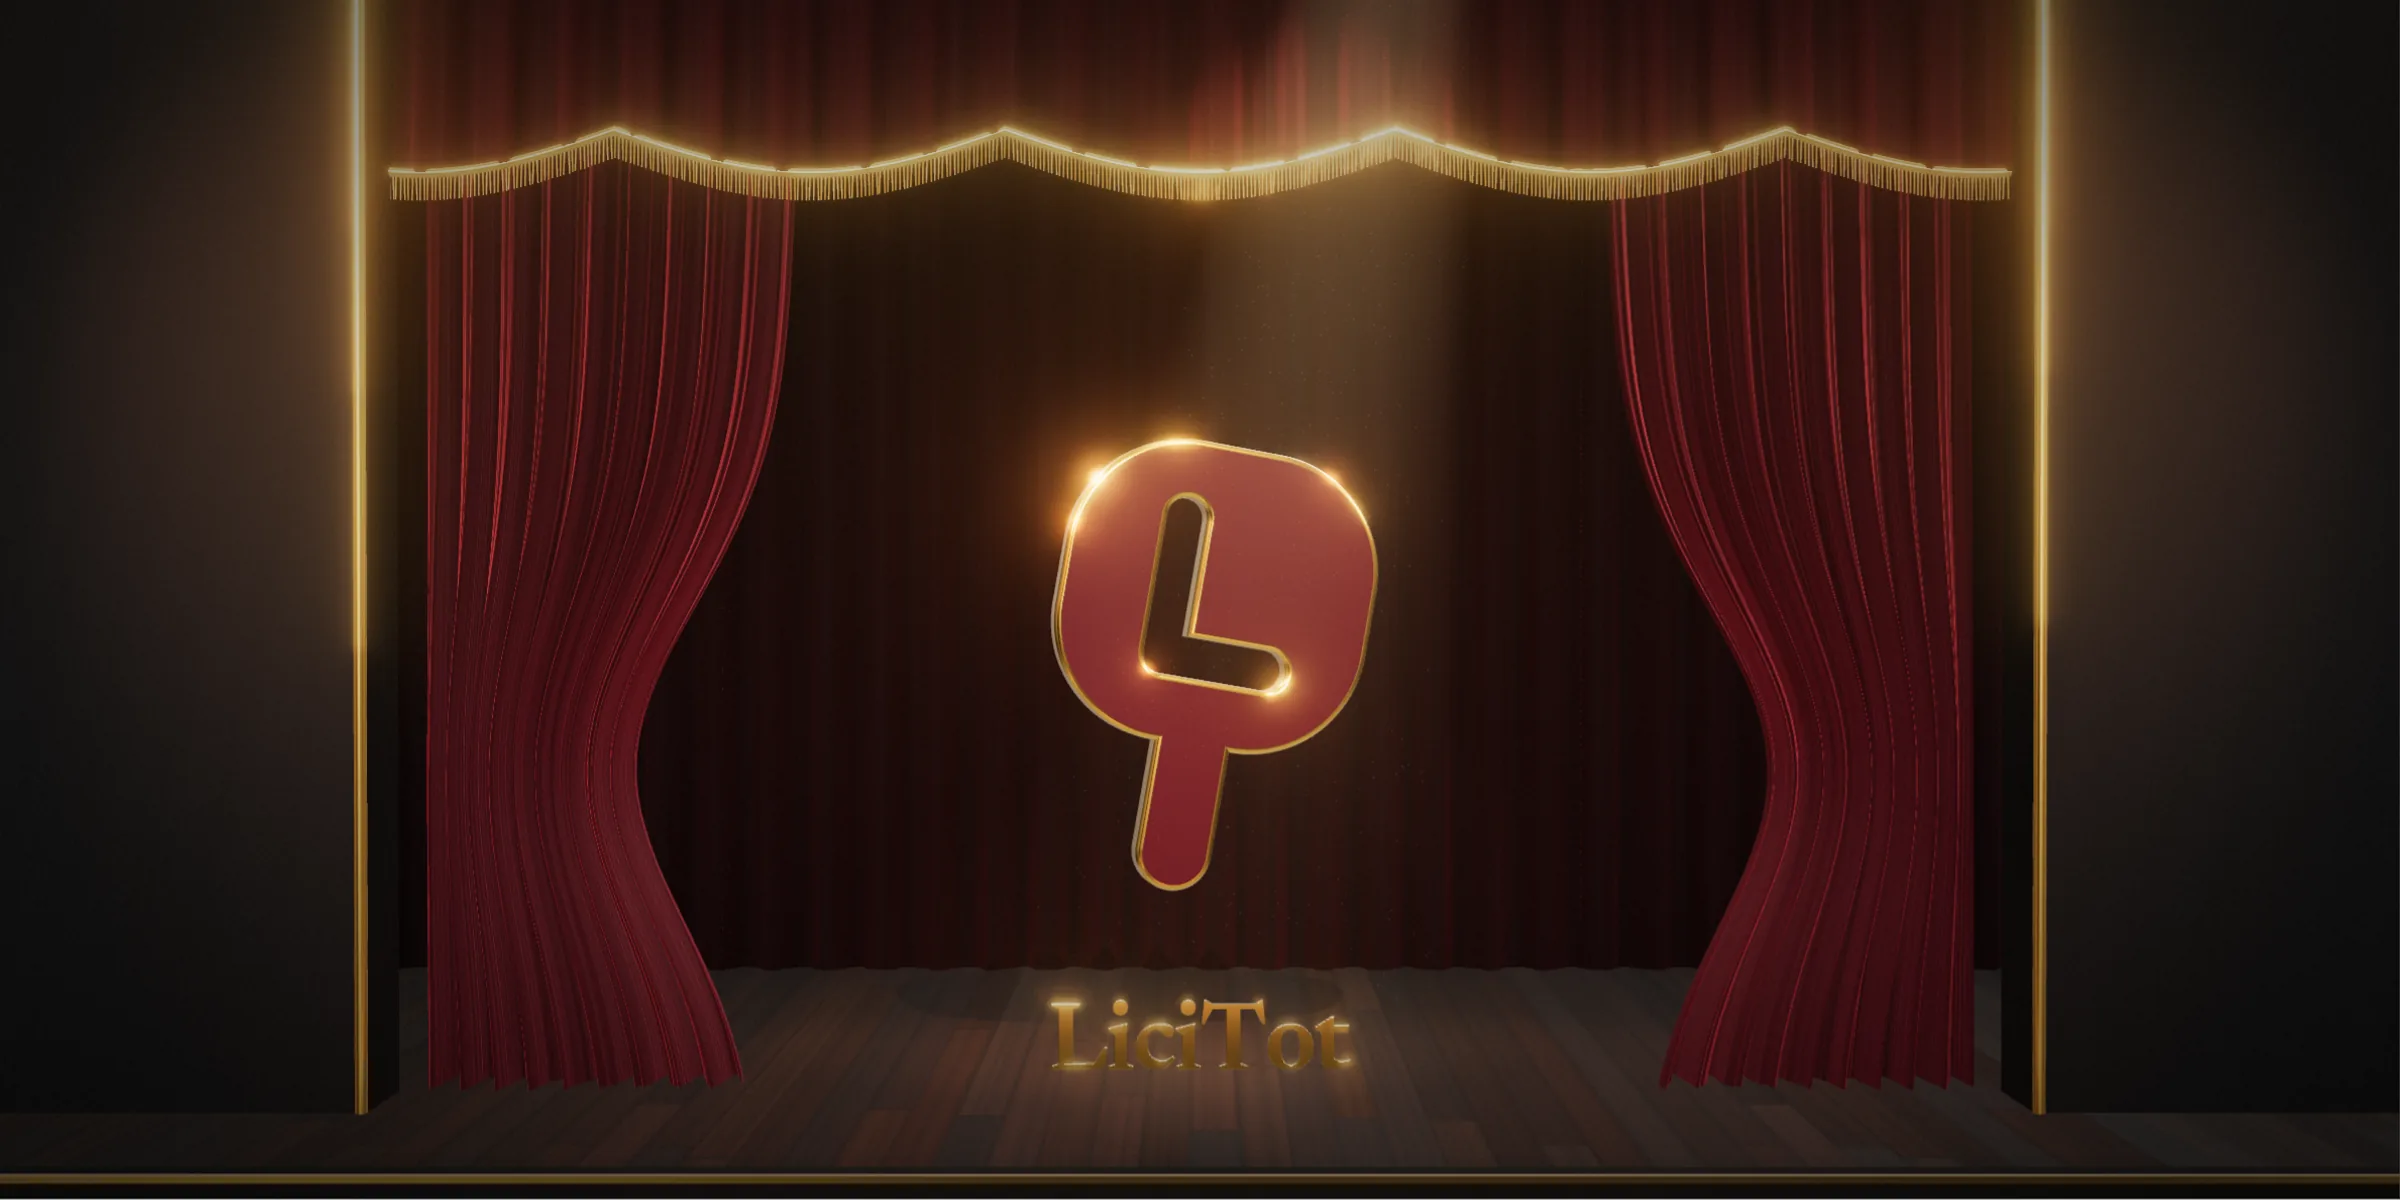
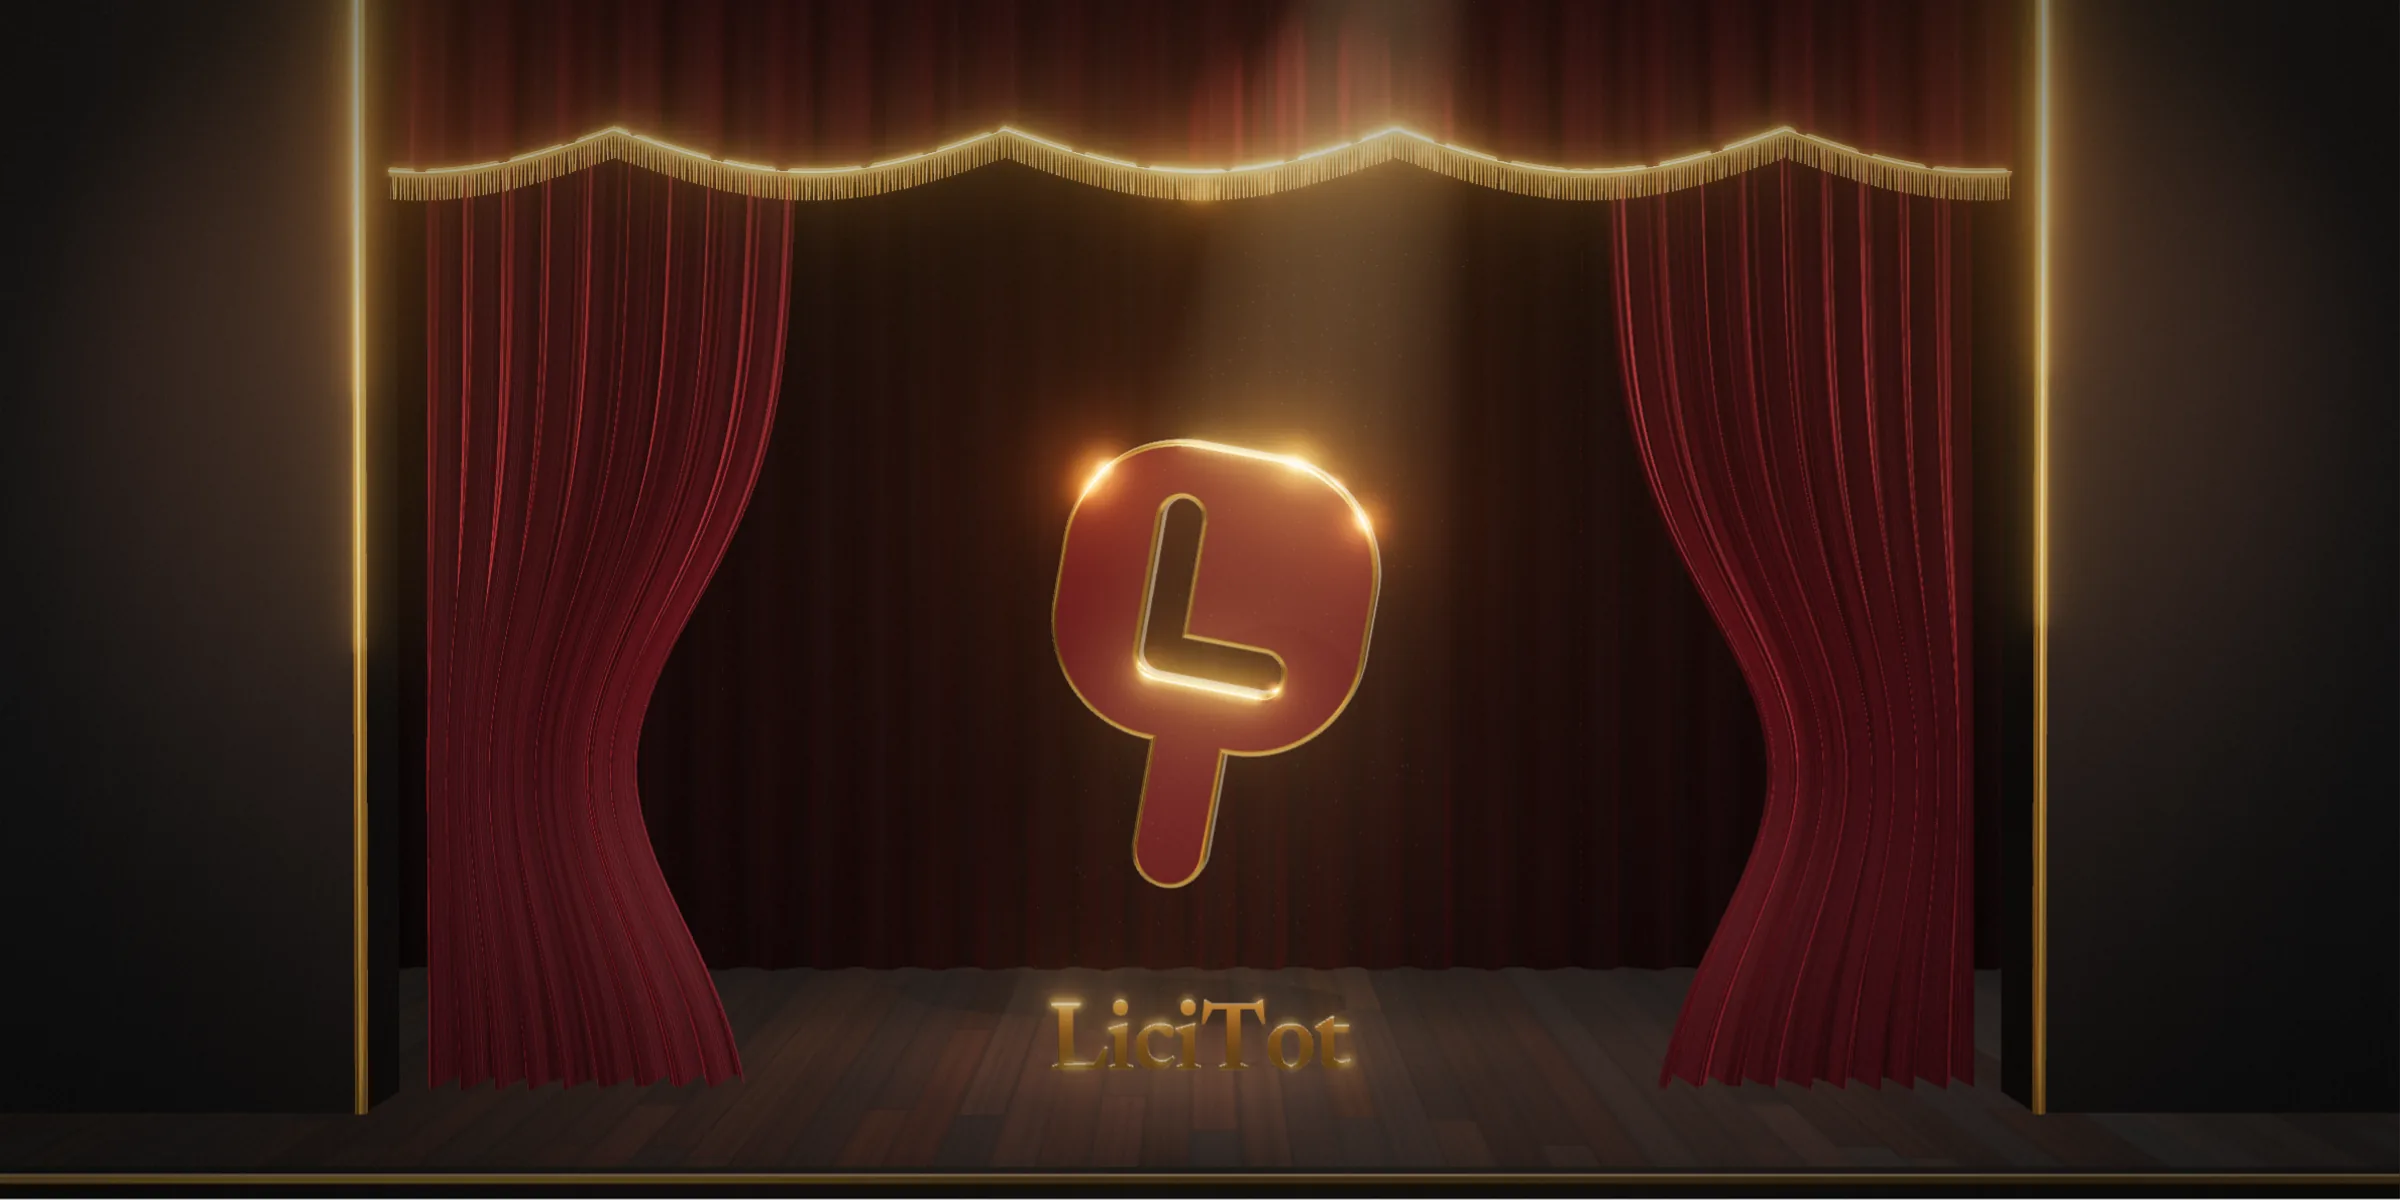
Stage: hover works with reduced motion, no washed-out paddle
With animations turned off in the OS the stage showed a still and ignored
the pointer. It now keeps rendering (already open, nothing moves) so hover
and tap fade the lights. The paddle rests at a slight angle, so its lacquer
face no longer mirrors the front lights, and the beam brightens less on
hover. Stills re-rendered.

Changed region(s): [[0.4062, 0.3083, 0.5938, 0.74]]

diff --git a/src/features/home/stage/scene.ts b/src/features/home/stage/scene.ts
@@ -50,6 +50,8 @@ const FOLDS = 9
 const PADDLE_Y = 2.3
 const PADDLE_Z = -0.35
 const PADDLE_START_Y = -1.9
+const REST_YAW = -0.3
+const REST_PITCH = 0.08
 
 // The paddle as one outline (head + handle) with the "L" as a hole, on the 64-unit logo grid.
 const PADDLE_OUTLINE =
@@ -422,7 +424,7 @@ export function createStage(canvas: HTMLCanvasElement, options: StageOptions = {
     clearcoat: 1,
     clearcoatRoughness: 0.04,
     envMap: reflections,
-    envMapIntensity: 0.55,
+    envMapIntensity: 0.35,
   })
 
   // Floor and apron
@@ -693,22 +695,25 @@ export function createStage(canvas: HTMLCanvasElement, options: StageOptions = {
 
     paddleRig.position.y = THREE.MathUtils.lerp(PADDLE_START_Y, PADDLE_Y, rise)
     const idle = reduced ? 0 : 1
+    // Never quite face-on: a flat lacquer face would mirror the front lights and wash out.
     paddleRig.rotation.y =
+      REST_YAW +
       (1 - rise) * Math.PI * 0.9 +
       idle * (1 - hover) * Math.sin(time * 0.45) * 0.22 +
-      hover * pointerSmooth.x * 0.5
-    paddleRig.rotation.x = hover * -pointerSmooth.y * 0.22 + idle * Math.sin(time * 0.7) * 0.025
+      idle * hover * pointerSmooth.x * 0.5
+    paddleRig.rotation.x =
+      REST_PITCH + idle * (hover * -pointerSmooth.y * 0.22 + Math.sin(time * 0.7) * 0.025)
     paddleRig.position.y += idle * Math.sin(time * 0.9) * 0.035 * rise
 
-    key.intensity = lights * (85 + hover * 35)
+    key.intensity = lights * (85 + hover * 25)
     front.intensity = lights * 16
-    beam.uniforms.uIntensity.value = lights * (0.1 + hover * 0.14)
-    dustMat.opacity = lights * (0.45 + hover * 0.4)
-    for (const rim of rims) rim.intensity = lights * (45 + hover * 110)
+    beam.uniforms.uIntensity.value = lights * (0.1 + hover * 0.045)
+    dustMat.opacity = lights * (0.45 + hover * 0.35)
+    for (const rim of rims) rim.intensity = lights * (45 + hover * 65)
     for (const wash of washes) wash.intensity = 30 + lights * 12
     foot.intensity = 3 + lights * 2
-    gold.envMapIntensity = 0.9 + hover * 0.9
-    bloom.strength = 0.3 + hover * 0.25
+    gold.envMapIntensity = 0.9 + hover * 0.6
+    bloom.strength = 0.3 + hover * 0.16
 
     // The camera leans gently with the pointer.
     camera.position.x = pointerSmooth.x * 0.35 * idle
@@ -735,7 +740,8 @@ export function createStage(canvas: HTMLCanvasElement, options: StageOptions = {
 
   function renderFrame(dt: number) {
     update(dt)
-    film.uniforms.uTime!.value = time
+    // Reduced motion: the grain stays still too.
+    film.uniforms.uTime!.value = reduced ? 0 : time
     composer.render(dt)
     if (!firstFrame) {
       firstFrame = true
@@ -761,7 +767,9 @@ export function createStage(canvas: HTMLCanvasElement, options: StageOptions = {
   }
 
   function start() {
-    if (raf || reduced || !compiled) return
+    // Reduced motion still runs the loop (the stage is already open and nothing moves), so
+    // hovering can fade the lights up and down.
+    if (raf || !compiled) return
     last = performance.now()
     raf = requestAnimationFrame(loop)
   }
@@ -780,7 +788,6 @@ export function createStage(canvas: HTMLCanvasElement, options: StageOptions = {
     raycaster.setFromCamera(pointer, camera)
     hoverTarget = raycaster.intersectObject(paddle, false).length > 0 ? 1 : 0
     canvas.style.cursor = hoverTarget ? "pointer" : ""
-    if (reduced) renderFrame(0)
   }
   // Touch: a tap on the paddle lights it up for a moment.
   let tapTimer = 0
@@ -791,7 +798,6 @@ export function createStage(canvas: HTMLCanvasElement, options: StageOptions = {
     window.clearTimeout(tapTimer)
     tapTimer = window.setTimeout(() => {
       hoverTarget = 0
-      if (reduced) renderFrame(0)
     }, 2600)
   }
   function onPointerLeave(e: PointerEvent) {
@@ -799,7 +805,6 @@ export function createStage(canvas: HTMLCanvasElement, options: StageOptions = {
     hoverTarget = 0
     pointer.set(0, 0)
     canvas.style.cursor = ""
-    if (reduced) renderFrame(0)
   }
   canvas.addEventListener("pointermove", onPointerMove)
   canvas.addEventListener("pointerdown", onPointerDown)
